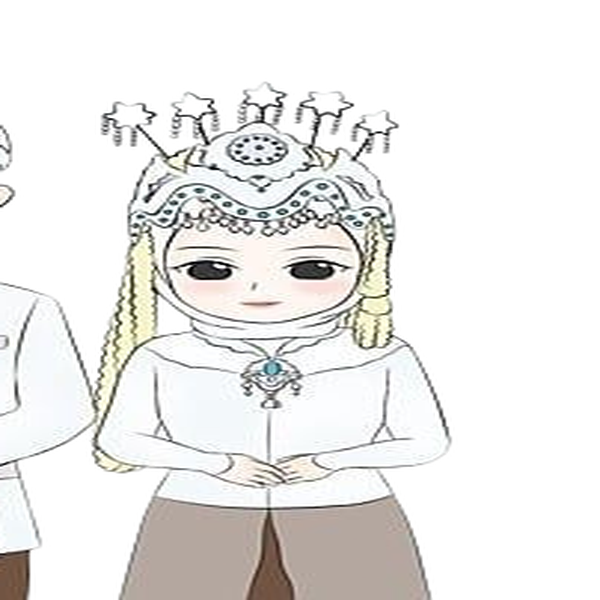
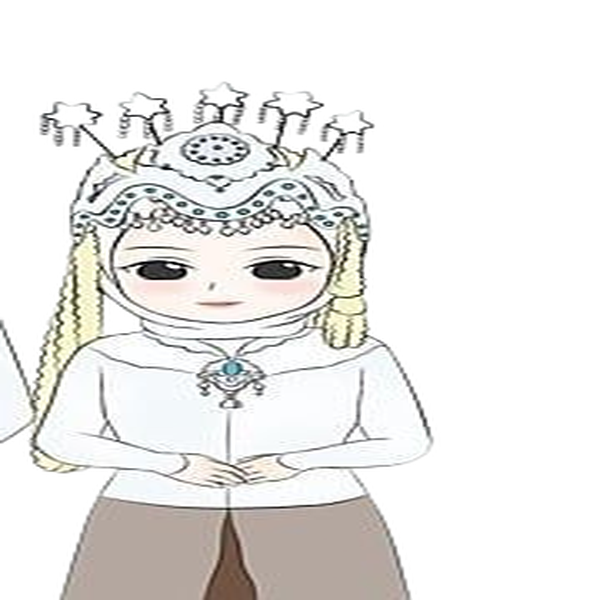
fix: center split portrait crops in couple section frames

Changed region(s): [[0.0, 0.12, 0.75, 1.0], [0.0, 0.21, 0.03, 0.36], [0.0, 0.45, 0.03, 0.48]]

diff --git a/src/components/invitation/sections/CoupleSection.tsx b/src/components/invitation/sections/CoupleSection.tsx
@@ -102,9 +102,9 @@ export function CoupleSection({ tenant, themeConfig }: Props) {
                 {tenant.groomPhotoUrl ? (
                   <Image src={tenant.groomPhotoUrl} alt={tenant.groomName} fill className="object-cover" />
                 ) : isMinangTheme ? (
-                  <Image src="/images/minang-groom-real.png" alt="Ilustrasi mempelai pria Minang" fill className="object-cover object-top" />
+                  <Image src="/images/minang-groom-real.png" alt="Ilustrasi mempelai pria Minang" fill className="object-cover object-center" />
                 ) : isIslam ? (
-                  <Image src="/images/muslim-groom-real.png" alt="Ilustrasi mempelai pria" fill className="object-cover object-top" />
+                  <Image src="/images/muslim-groom-real.png" alt="Ilustrasi mempelai pria" fill className="object-cover object-center" />
                 ) : (
                   <CouplePhotoPlaceholder
                     name={tenant.groomNickname || tenant.groomName}
@@ -158,9 +158,9 @@ export function CoupleSection({ tenant, themeConfig }: Props) {
                 {tenant.bridePhotoUrl ? (
                   <Image src={tenant.bridePhotoUrl} alt={tenant.brideName} fill className="object-cover" />
                 ) : isMinangTheme ? (
-                  <Image src="/images/minang-bride-real.png" alt="Ilustrasi mempelai wanita Minang" fill className="object-cover object-top" />
+                  <Image src="/images/minang-bride-real.png" alt="Ilustrasi mempelai wanita Minang" fill className="object-cover object-center" />
                 ) : isIslam ? (
-                  <Image src="/images/muslim-bride-real.png" alt="Ilustrasi mempelai wanita" fill className="object-cover object-top" />
+                  <Image src="/images/muslim-bride-real.png" alt="Ilustrasi mempelai wanita" fill className="object-cover object-center" />
                 ) : (
                   <CouplePhotoPlaceholder
                     name={tenant.brideNickname || tenant.brideName}
